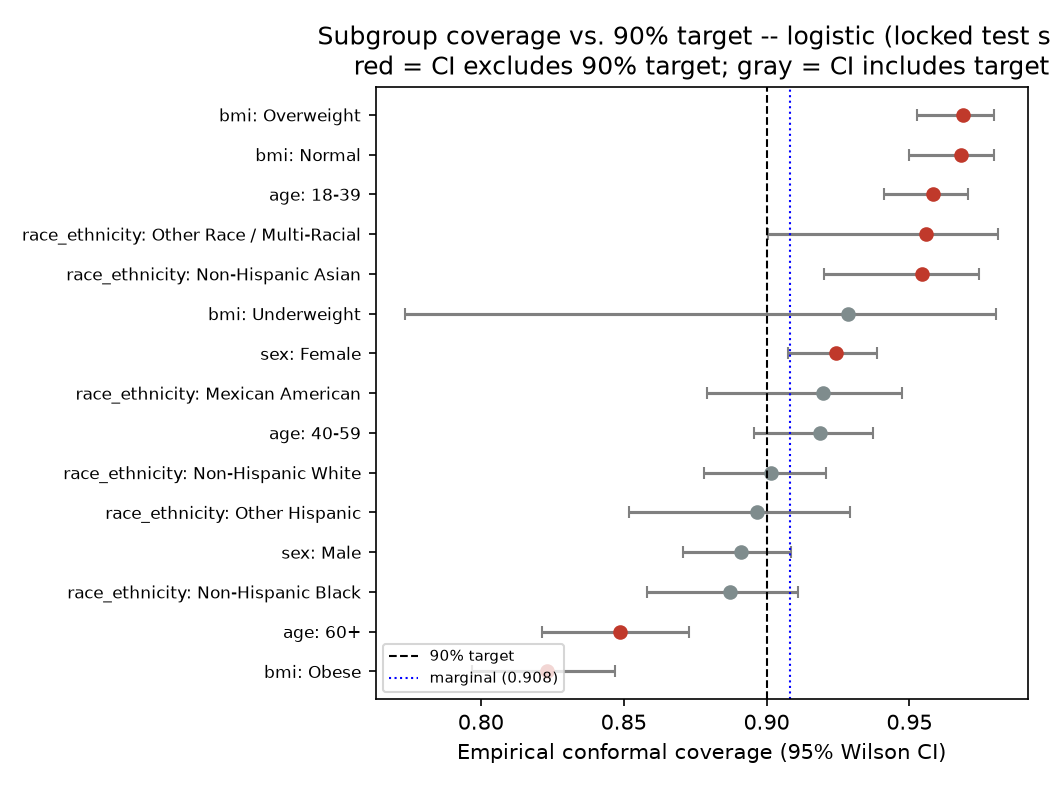
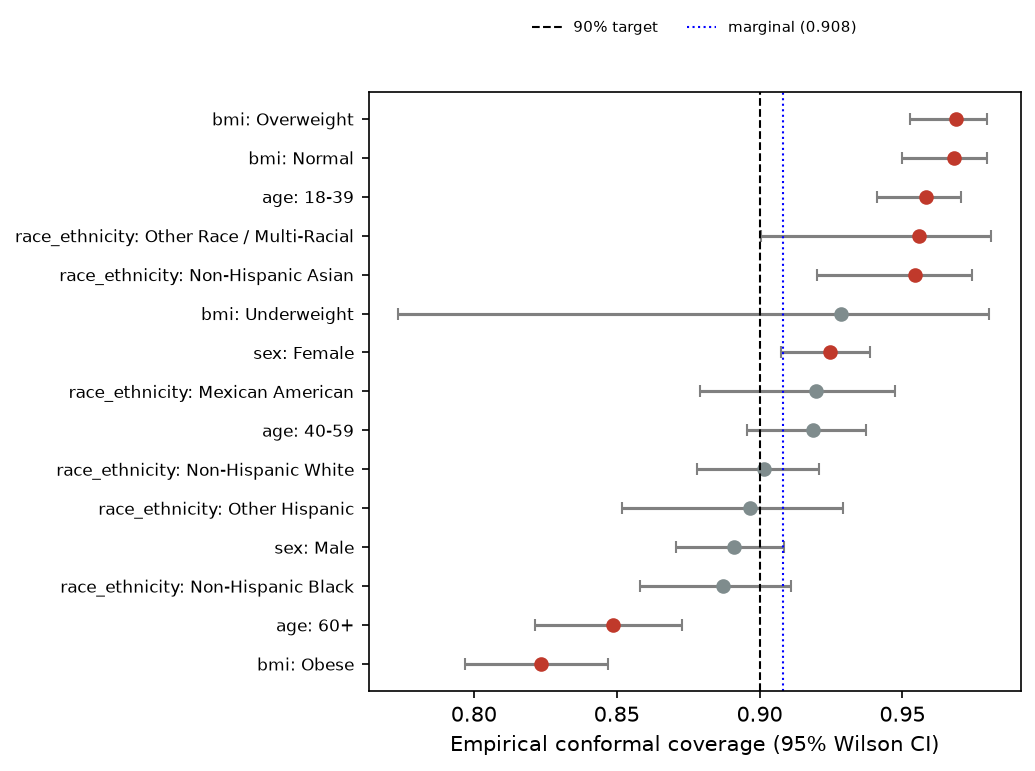
style: camera-ready figure styling for subgroup coverage plots
Drop the redundant in-figure title (caption carries it in the manuscript)
and move the legend to a top-center position outside the plot area with
bbox_inches="tight". No data, axis, or statistical content changed --
verified byte-identical across the three locations these figures are
duplicated to (manuscript_figures/{main,supplement}, results/uncertainty/figures).

Changed region(s): [[0.0, 0.0311, 1.0, 0.9961]]

diff --git a/liver_fibrosis_research/src/phase6_07_figures.py b/liver_fibrosis_research/src/phase6_07_figures.py
@@ -34,10 +34,9 @@ for model in MODEL_NAMES:
     ax.axvline(marg, color="blue", linestyle=":", linewidth=1, label=f"marginal ({marg:.3f})")
     ax.set_yticks(list(y_pos)); ax.set_yticklabels(sub["label"], fontsize=8)
     ax.set_xlabel("Empirical conformal coverage (95% Wilson CI)")
-    ax.set_title(f"Subgroup coverage vs. 90% target -- {model} (locked test set)\nred = CI excludes 90% target; gray = CI includes target")
-    ax.legend(loc="lower left", fontsize=7)
+    ax.legend(loc="upper center", bbox_to_anchor=(0.5, 1.14), ncol=2, fontsize=7, frameon=False)
     fig.tight_layout()
-    fig.savefig(FIG_DIR / f"subgroup_coverage_{model}.png", dpi=150)
+    fig.savefig(FIG_DIR / f"subgroup_coverage_{model}.png", dpi=150, bbox_inches="tight")
     plt.close(fig)
 
 print(f"Saved {len(MODEL_NAMES)} subgroup coverage figures to results/uncertainty/figures/")
